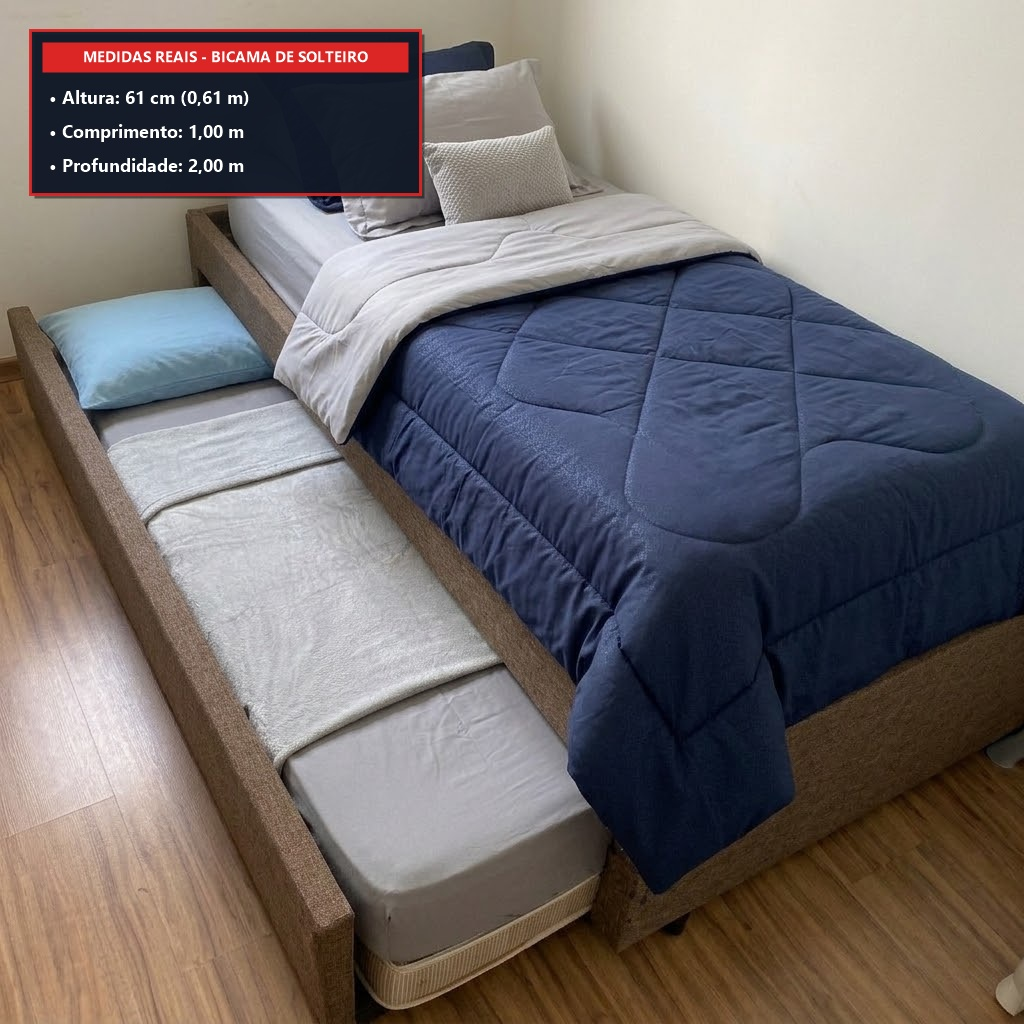
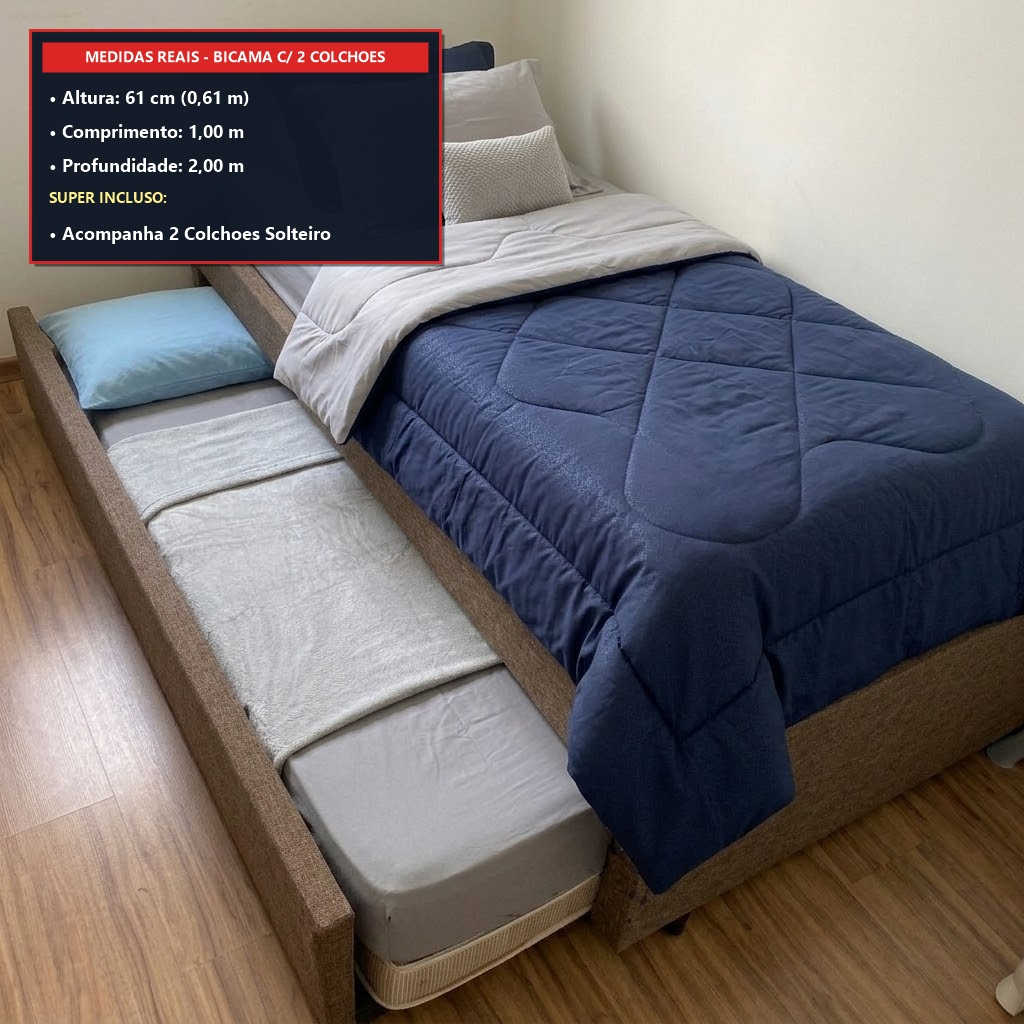
feat: atualizar bicama para R$ 300 com 2 colchoes inclusos

Changed region(s): [[0.0, 0.0312, 0.4375, 0.2812]]

diff --git a/bicama.html b/bicama.html
@@ -3,13 +3,13 @@
 <head>
   <meta charset="UTF-8">
   <meta name="viewport" content="width=device-width, initial-scale=1.0, maximum-scale=1.0, user-scalable=no">
-  <title>Bicama de Solteiro Usada c/ Auxiliar - R$ 200 | Bota-Fora Jundiaí</title>
-  <meta name="description" content="Bicama de Solteiro Usada com cama auxiliar retrátil por apenas R$ 200. Retirada na Av. Reserva do Japy, 360 - Jundiaí.">
+  <title>Bicama de Solteiro Usada c/ 2 Colchões - R$ 300 | Bota-Fora Jundiaí</title>
+  <meta name="description" content="Bicama de Solteiro Usada com cama auxiliar retrátil + 2 colchões de solteiro por apenas R$ 300. Retirada na Av. Reserva do Japy, 360 - Jundiaí.">
   
   <!-- Open Graph para WhatsApp / Redes Sociais -->
   <meta property="og:type" content="website">
-  <meta property="og:title" content="Bicama de Solteiro Usada c/ Cama Auxiliar - R$ 200,00 | Bota-Fora Jundiaí">
-  <meta property="og:description" content="2 camas em 1! Excelente estado com cama retrátil embaixo. Retirada na Av. Reserva do Japy, 360. Clique para ver fotos e comprar no WhatsApp!">
+  <meta property="og:title" content="Bicama de Solteiro Usada c/ 2 Colchões - R$ 300,00 | Bota-Fora Jundiaí">
+  <meta property="og:description" content="Completa com 2 colchões de solteiro inclusos! Estrutura firme + cama auxiliar retrátil. Retirada na Av. Reserva do Japy, 360. Clique para ver fotos e comprar no WhatsApp!">
   <meta property="og:image" content="https://raw.githubusercontent.com/felipemartins008-create/moveis/main/7afc4976-0479-4e33-a2ec-b11483739616.jpg">
   <meta property="og:image:secure_url" content="https://raw.githubusercontent.com/felipemartins008-create/moveis/main/7afc4976-0479-4e33-a2ec-b11483739616.jpg">
   <meta property="og:image:type" content="image/jpeg">
@@ -51,23 +51,27 @@
   <div class="container">
     <div class="card">
       <div class="card-photo" onclick="comprar()">
-        <img src="7afc4976-0479-4e33-a2ec-b11483739616.jpg" alt="Bicama Solteiro">
-        <div class="card-price-badge">R$ 200</div>
+        <img src="7afc4976-0479-4e33-a2ec-b11483739616.jpg" alt="Bicama Solteiro c/ 2 Colchões">
+        <div class="card-price-badge">R$ 300</div>
         <div class="tap-hint">👆 Toque na foto para comprar</div>
       </div>
 
       <div class="card-content">
-        <h1 class="card-name">Bicama de Solteiro Usada c/ Cama Auxiliar</h1>
+        <h1 class="card-name">Bicama de Solteiro Usada c/ 2 Colchões Inclusos</h1>
+
+        <div style="background:#ecfdf5; border:1px dashed #10b981; color:#065f46; padding:8px 12px; border-radius:8px; font-size:0.88rem; font-weight:700; margin-bottom:12px;">
+          🛏 <strong>SUPER OFERTA:</strong> Acompanha <strong>2 colchões de solteiro</strong> inclusos no valor de R$ 300!
+        </div>
 
         <div class="card-measure">
           📏 <strong>Medidas reais:</strong> Altura 61cm • Comprimento 1,00m • Profundidade 2,00m<br>
-          🛏 <strong>Detalhes:</strong> Estrutura estofada reforçada com gavetão deslizante e cama extra inferior.<br>
+          🛏 <strong>Detalhes:</strong> Estrutura estofada reforçada com gavetão deslizante, cama extra inferior e 2 colchões de solteiro inclusos!<br>
           📍 <strong>Retirada:</strong> Av. Reserva do Japy, 360 - Jundiaí/SP (PIX ou Dinheiro)
         </div>
 
-        <a href="https://api.whatsapp.com/send?phone=5511961343759&text=Ol%C3%A1!%20Vi%20o%20link%20da%20Bicama%20de%20Solteiro%20(R$%20200)%20na%20Av.%20Reserva%20do%20Japy%20360.%20Quero%20comprar!" target="_blank" class="btn-wpp">
+        <a href="https://api.whatsapp.com/send?phone=5511961343759&text=Ol%C3%A1!%20Vi%20o%20link%20da%20Bicama%20de%20Solteiro%20com%202%20Colch%C3%B5es%20(R$%20300)%20na%20Av.%20Reserva%20do%20Japy%20360.%20Quero%20comprar!" target="_blank" class="btn-wpp">
           <svg class="wpp-icon" viewBox="0 0 24 24"><path d="M12.031 6.172c-3.181 0-5.767 2.586-5.768 5.766-.001 1.298.38 2.27 1.019 3.287l-.582 2.128 2.182-.573c.978.58 1.911.928 3.145.929 3.178 0 5.767-2.587 5.768-5.766.001-3.187-2.575-5.77-5.764-5.771zm3.392 8.244c-.144.405-.837.774-1.17.824-.299.045-.677.063-1.092-.069-.252-.08-.575-.187-.988-.365-1.739-.751-2.874-2.502-2.961-2.617-.087-.116-.708-.94-.708-1.793s.448-1.273.607-1.446c.159-.173.346-.217.462-.217l.332.007c.106.005.249-.04.39.299.144.347.491 1.2.534 1.287.043.087.072.188.014.303-.058.116-.087.188-.173.289l-.26.303c-.087.087-.177.182-.076.356.101.174.449.741.964 1.201.662.591 1.221.774 1.394.861.173.086.275.072.376-.044.101-.116.433-.506.549-.68.116-.173.231-.145.39-.087s1.011.477 1.184.564.289.13.332.202c.043.073.043.419-.101.825zM12 2C6.477 2 2 6.477 2 12c0 1.821.487 3.53 1.338 5L2.05 21.95l5.097-1.335C8.584 21.487 10.237 22 12 22c5.523 0 10-4.477 10-10S17.523 2 12 2z"/></svg>
-          COMPRAR NO WHATSAPP (R$ 200)
+          COMPRAR NO WHATSAPP (R$ 300)
         </a>
 
         <a href="index.html" class="btn-all">
@@ -83,17 +87,17 @@
 
   <div class="bottom-bar">
     <div class="info">
-      <span>Bicama de Solteiro</span>
-      <strong>R$ 200,00</strong>
+      <span>Bicama c/ 2 Colchões</span>
+      <strong>R$ 300,00</strong>
     </div>
-    <a href="https://api.whatsapp.com/send?phone=5511961343759&text=Ol%C3%A1!%20Vi%20o%20link%20da%20Bicama%20de%20Solteiro%20(R$%20200)%20na%20Av.%20Reserva%20do%20Japy%20360.%20Quero%20comprar!" target="_blank" class="btn-wpp">
+    <a href="https://api.whatsapp.com/send?phone=5511961343759&text=Ol%C3%A1!%20Vi%20o%20link%20da%20Bicama%20de%20Solteiro%20com%202%20Colch%C3%B5es%20(R$%20300)%20na%20Av.%20Reserva%20do%20Japy%20360.%20Quero%20comprar!" target="_blank" class="btn-wpp">
       Comprar no Whats
     </a>
   </div>
 
   <script>
     function comprar() {
-      window.open("https://api.whatsapp.com/send?phone=5511961343759&text=Ol%C3%A1!%20Vi%20o%20link%20da%20Bicama%20de%20Solteiro%20(R$%20200)%20na%20Av.%20Reserva%20do%20Japy%20360.%20Quero%20comprar!", "_blank");
+      window.open("https://api.whatsapp.com/send?phone=5511961343759&text=Ol%C3%A1!%20Vi%20o%20link%20da%20Bicama%20de%20Solteiro%20com%202%20Colch%C3%B5es%20(R$%20300)%20na%20Av.%20Reserva%20do%20Japy%20360.%20Quero%20comprar!", "_blank");
     }
   </script>
 </body>

diff --git a/index.html b/index.html
@@ -383,10 +383,10 @@
       <div class="deal-all-box">
         <span class="deal-all-tag">🔥 SUPER PACOTE</span>
         <div class="deal-all-title">LEVE TUDO (OS 6 ITENS) POR:</div>
-        <div class="deal-all-price">R$ 1.700,00</div>
-        <a href="https://api.whatsapp.com/send?phone=5511961343759&text=Ol%C3%A1!%20Quero%20ficar%20com%20o%20PACOTE%20COMPLETO%20de%20todos%20os%20m%C3%B3veis%20por%20R$%201.700%20na%20Av.%20Reserva%20do%20Japy%20360.%20Ainda%20est%C3%A1%20dispon%C3%ADvel?" target="_blank" class="btn-wpp">
+        <div class="deal-all-price">R$ 1.800,00</div>
+        <a href="https://api.whatsapp.com/send?phone=5511961343759&text=Ol%C3%A1!%20Quero%20ficar%20com%20o%20PACOTE%20COMPLETO%20de%20todos%20os%20m%C3%B3veis%20por%20R$%201.800%20na%20Av.%20Reserva%20do%20Japy%20360.%20Ainda%20est%C3%A1%20dispon%C3%ADvel?" target="_blank" class="btn-wpp">
           <svg class="wpp-icon" viewBox="0 0 24 24"><path d="M12.031 6.172c-3.181 0-5.767 2.586-5.768 5.766-.001 1.298.38 2.27 1.019 3.287l-.582 2.128 2.182-.573c.978.58 1.911.928 3.145.929 3.178 0 5.767-2.587 5.768-5.766.001-3.187-2.575-5.77-5.764-5.771zm3.392 8.244c-.144.405-.837.774-1.17.824-.299.045-.677.063-1.092-.069-.252-.08-.575-.187-.988-.365-1.739-.751-2.874-2.502-2.961-2.617-.087-.116-.708-.94-.708-1.793s.448-1.273.607-1.446c.159-.173.346-.217.462-.217l.332.007c.106.005.249-.04.39.299.144.347.491 1.2.534 1.287.043.087.072.188.014.303-.058.116-.087.188-.173.289l-.26.303c-.087.087-.177.182-.076.356.101.174.449.741.964 1.201.662.591 1.221.774 1.394.861.173.086.275.072.376-.044.101-.116.433-.506.549-.68.116-.173.231-.145.39-.087s1.011.477 1.184.564.289.13.332.202c.043.073.043.419-.101.825zM12 2C6.477 2 2 6.477 2 12c0 1.821.487 3.53 1.338 5L2.05 21.95l5.097-1.335C8.584 21.487 10.237 22 12 22c5.523 0 10-4.477 10-10S17.523 2 12 2z"/></svg>
-          QUERO LEVAR TUDO POR R$ 1.700
+          QUERO LEVAR TUDO POR R$ 1.800
         </a>
       </div>
     </div>
@@ -499,23 +499,25 @@
         </div>
       </div>
 
-      <!-- ITEM 4: BICAMA DE SOLTEIRO -->
+      <!-- ITEM 4: BICAMA DE SOLTEIRO COM 2 COLCHÕES -->
       <div class="card" id="bicama">
-        <div class="card-photo" onclick="window.open('https://api.whatsapp.com/send?phone=5511961343759&text=Ol%C3%A1!%20Tenho%20interesse%20na%20Bicama%20de%20Solteiro%20(R$%20200)%20na%20Av.%20Reserva%20do%20Japy%20360.', '_blank')">
-          <img src="7afc4976-0479-4e33-a2ec-b11483739616.jpg" alt="Bicama Solteiro" loading="lazy">
-          <div class="card-price-badge">R$ 200</div>
+        <div class="card-photo" onclick="window.open('https://api.whatsapp.com/send?phone=5511961343759&text=Ol%C3%A1!%20Tenho%20interesse%20na%20Bicama%20de%20Solteiro%20com%202%20Colch%C3%B5es%20(R$%20300)%20na%20Av.%20Reserva%20do%20Japy%20360.', '_blank')">
+          <img src="7afc4976-0479-4e33-a2ec-b11483739616.jpg" alt="Bicama Solteiro c/ 2 Colchões" loading="lazy">
+          <div class="card-price-badge">R$ 300</div>
+          <div class="card-combo-tag">Acompanha 2 Colchões de Solteiro!</div>
         </div>
         <div class="card-content">
           <div class="card-header-line">
-            <h2 class="card-name">Bicama de Solteiro c/ Auxiliar</h2>
-            <div class="card-price-inline">R$ 200</div>
+            <h2 class="card-name">Bicama de Solteiro c/ 2 Colchões</h2>
+            <div class="card-price-inline">R$ 300</div>
           </div>
           <div class="card-measure">
-            🛏 <strong>Medidas reais:</strong> Altura 61cm • Comprimento 1,00m • Profundidade 2,00m
+            🛏 <strong>Medidas reais:</strong> Altura 61cm • Comprimento 1,00m • Profundidade 2,00m<br>
+            ✨ <strong>Incluso:</strong> Acompanha 2 colchões de solteiro inclusos!
           </div>
-          <a href="https://api.whatsapp.com/send?phone=5511961343759&text=Ol%C3%A1!%20Tenho%20interesse%20na%20Bicama%20de%20Solteiro%20(R$%20200)%20na%20Av.%20Reserva%20do%20Japy%20360." target="_blank" class="btn-wpp">
+          <a href="https://api.whatsapp.com/send?phone=5511961343759&text=Ol%C3%A1!%20Tenho%20interesse%20na%20Bicama%20de%20Solteiro%20com%202%20Colch%C3%B5es%20(R$%20300)%20na%20Av.%20Reserva%20do%20Japy%20360." target="_blank" class="btn-wpp">
             <svg class="wpp-icon" viewBox="0 0 24 24"><path d="M12.031 6.172c-3.181 0-5.767 2.586-5.768 5.766-.001 1.298.38 2.27 1.019 3.287l-.582 2.128 2.182-.573c.978.58 1.911.928 3.145.929 3.178 0 5.767-2.587 5.768-5.766.001-3.187-2.575-5.77-5.764-5.771zm3.392 8.244c-.144.405-.837.774-1.17.824-.299.045-.677.063-1.092-.069-.252-.08-.575-.187-.988-.365-1.739-.751-2.874-2.502-2.961-2.617-.087-.116-.708-.94-.708-1.793s.448-1.273.607-1.446c.159-.173.346-.217.462-.217l.332.007c.106.005.249-.04.39.299.144.347.491 1.2.534 1.287.043.087.072.188.014.303-.058.116-.087.188-.173.289l-.26.303c-.087.087-.177.182-.076.356.101.174.449.741.964 1.201.662.591 1.221.774 1.394.861.173.086.275.072.376-.044.101-.116.433-.506.549-.68.116-.173.231-.145.39-.087s1.011.477 1.184.564.289.13.332.202c.043.073.043.419-.101.825zM12 2C6.477 2 2 6.477 2 12c0 1.821.487 3.53 1.338 5L2.05 21.95l5.097-1.335C8.584 21.487 10.237 22 12 22c5.523 0 10-4.477 10-10S17.523 2 12 2z"/></svg>
-            Quero a Bicama (R$ 200)
+            Quero a Bicama + 2 Colchões (R$ 300)
           </a>
         </div>
       </div>
